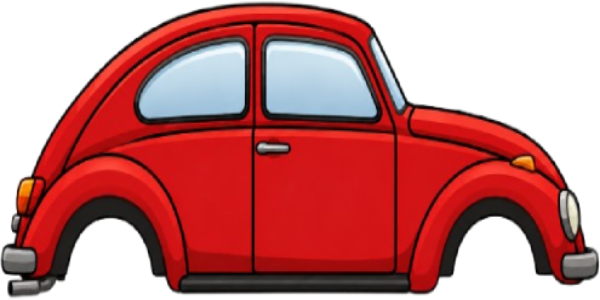
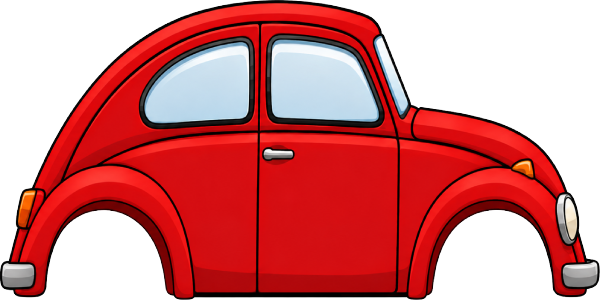
Alinhamento Vehicles

diff --git a/src/assets/vehicles/Vehicle.java b/src/assets/vehicles/Vehicle.java
@@ -9,6 +9,7 @@ import java.io.File;
 public class Vehicle {
     public String name;
     protected int x, y, width, height, wheelSize;
+    protected int frontWheelX, frontWheelY, rearWheelX, rearWheelY;
     protected Image bodyImage, wheelImage;
     protected double speed, currentRpm, maxRpm, baseTorque, mass, speedMax;
     protected int currentGear;
@@ -31,13 +32,18 @@ public class Vehicle {
 
     protected int volumeEfeitos = 50;
 
-    public Vehicle(String name, int width, int height, int wheelSize, double mass,
-                   double baseTorque, double maxRpm, double speedMax, double[] gearRatios,
+    public Vehicle(String name, int width, int height, int wheelSize,
+                   int frontWheelX, int frontWheelY, int rearWheelX, int rearWheelY,
+                   double mass, double baseTorque, double maxRpm, double speedMax, double[] gearRatios,
                    String bodyPath, String wheelPath) {
         this.name = name;
         this.width = width;
         this.height = height;
         this.wheelSize = wheelSize;
+        this.frontWheelX = frontWheelX;
+        this.frontWheelY = frontWheelY;
+        this.rearWheelX = rearWheelX;
+        this.rearWheelY = rearWheelY;
         this.mass = mass;
         this.baseTorque = baseTorque;
         this.maxRpm = maxRpm;
@@ -47,7 +53,7 @@ public class Vehicle {
         this.wheelImage = new ImageIcon(wheelPath).getImage();
 
         this.x = 50;
-        this.y = 280;
+        this.y = 260;
         this.wheelAngle = 0;
         this.currentGear = 1;
         this.currentRpm = 0.0;
@@ -69,9 +75,18 @@ public class Vehicle {
     public int getWidth() {
         return this.width;
     }
-    public boolean isEngineOn() { return isEngineOn; }
-    public void setX(int x) { this.x = x; }
-    public void setY(int y) { this.y = y; }
+
+    public boolean isEngineOn() {
+        return isEngineOn;
+    }
+
+    public void setX(int x) {
+        this.x = x;
+    }
+
+    public void setY(int y) {
+        this.y = y;
+    }
 
     public void toggleEngine() {
         if (this.isEngineOn) {
@@ -109,7 +124,8 @@ public class Vehicle {
                     if (finalVolumeDB > gainControl.getMaximum()) finalVolumeDB = gainControl.getMaximum();
                     if (finalVolumeDB < gainControl.getMinimum()) finalVolumeDB = gainControl.getMinimum();
                     gainControl.setValue(finalVolumeDB);
-                } catch (Exception e) {}
+                } catch (Exception e) {
+                }
 
                 clip.start();
             } catch (Exception e) {
@@ -172,14 +188,24 @@ public class Vehicle {
                     engineIdleClip.loop(Clip.LOOP_CONTINUOUSLY);
                     engineIdleClip.start();
                 }
-            } catch (Exception e) {}
+            } catch (Exception e) {
+            }
         }).start();
     }
 
     public void stopEngineSounds() {
-        if (engineStartClip != null && engineStartClip.isRunning()) { engineStartClip.stop(); engineStartClip.close(); }
-        if (engineIdleClip != null && engineIdleClip.isRunning()) { engineIdleClip.stop(); engineIdleClip.close(); }
-        if (engineDrivingClip != null && engineDrivingClip.isRunning()) { engineDrivingClip.stop(); engineDrivingClip.close(); }
+        if (engineStartClip != null && engineStartClip.isRunning()) {
+            engineStartClip.stop();
+            engineStartClip.close();
+        }
+        if (engineIdleClip != null && engineIdleClip.isRunning()) {
+            engineIdleClip.stop();
+            engineIdleClip.close();
+        }
+        if (engineDrivingClip != null && engineDrivingClip.isRunning()) {
+            engineDrivingClip.stop();
+            engineDrivingClip.close();
+        }
     }
 
     private void setClipVolume(Clip clip, float baseVolumeDB) {
@@ -191,7 +217,8 @@ public class Vehicle {
             if (finalVolumeDB > gainControl.getMaximum()) finalVolumeDB = gainControl.getMaximum();
             if (finalVolumeDB < gainControl.getMinimum()) finalVolumeDB = gainControl.getMinimum();
             gainControl.setValue(finalVolumeDB);
-        } catch (Exception e) {}
+        } catch (Exception e) {
+        }
     }
 
     private void applyPitch(Clip clip, float baseSampleRate, double rpm) {
@@ -204,7 +231,8 @@ public class Vehicle {
             if (newRate > rateControl.getMaximum()) newRate = rateControl.getMaximum();
             if (newRate < rateControl.getMinimum()) newRate = rateControl.getMinimum();
             rateControl.setValue(newRate);
-        } catch (Exception e) {}
+        } catch (Exception e) {
+        }
     }
 
     public void updateEngineSound() {
@@ -273,7 +301,6 @@ public class Vehicle {
     public void updatePhysics(boolean isAccelerating, boolean isBraking) {
         if (!this.isEngineOn()) isAccelerating = false;
 
-        // Arrancada em marcha alta (> 1) apaga o motor
         if (this.isEngineOn() && isAccelerating && this.speed < 0.5 && this.currentGear > 1) {
             stallEngine();
             return;
@@ -325,26 +352,37 @@ public class Vehicle {
     }
 
     public void draw(Graphics2D g2d, Component component) {
-        g2d.drawImage(bodyImage, x, y, width, height, component);
 
-        int backWheelX = x + (int)(width * 0.13);
-        int frontWheelX = x + (int)(width * 0.66);
-        int wheelY = y + (int)(height * 0.53);
+
 
         AffineTransform oldTransform = g2d.getTransform();
 
-        g2d.translate(backWheelX + wheelSize / 2.0, wheelY + wheelSize / 2.0);
+        // Desenhar roda traseira usando o offset dinâmico do XML
+        g2d.translate(x + rearWheelX, y + rearWheelY);
         g2d.rotate(this.wheelAngle);
         g2d.drawImage(wheelImage, -wheelSize / 2, -wheelSize / 2, wheelSize, wheelSize, component);
         g2d.setTransform(oldTransform);
 
-        g2d.translate(frontWheelX + wheelSize / 2.0, wheelY + wheelSize / 2.0);
+        // Desenhar roda dianteira usando o offset dinâmico do XML
+        g2d.translate(x + frontWheelX, y + frontWheelY);
         g2d.rotate(this.wheelAngle);
         g2d.drawImage(wheelImage, -wheelSize / 2, -wheelSize / 2, wheelSize, wheelSize, component);
         g2d.setTransform(oldTransform);
+
+        g2d.drawImage(bodyImage, x, y, width, height, component);
+
+
     }
 
-    public double getCurrentSpeed() { return this.speed; }
-    public double getCurrentRpm() { return this.currentRpm; }
-    public int getCurrentGear() { return this.currentGear; }
+    public double getCurrentSpeed() {
+        return this.speed;
+    }
+
+    public double getCurrentRpm() {
+        return this.currentRpm;
+    }
+
+    public int getCurrentGear() {
+        return this.currentGear;
+    }
 }

diff --git a/src/assets/vehicles/VehicleLoader.java b/src/assets/vehicles/VehicleLoader.java
@@ -8,6 +8,14 @@ import java.util.List;
 
 public class VehicleLoader {
 
+    private static String getTagValue(String tagName, Element element) {
+        NodeList nodeList = element.getElementsByTagName(tagName);
+        if (nodeList != null && nodeList.item(0) != null) {
+            return nodeList.item(0).getTextContent();
+        }
+        return "";
+    }
+
     public static List<Vehicle> loadVehicles(String xmlPath) {
         List<Vehicle> vehicleList = new ArrayList<>();
 
@@ -26,33 +34,56 @@ public class VehicleLoader {
                 if (nNode.getNodeType() == Node.ELEMENT_NODE) {
                     Element eElement = (Element) nNode;
 
-                    String name = eElement.getElementsByTagName("name").item(0).getTextContent();
-                    int width = Integer.parseInt(eElement.getElementsByTagName("width").item(0).getTextContent());
-                    int height = Integer.parseInt(eElement.getElementsByTagName("height").item(0).getTextContent());
-                    int wheelSize = Integer.parseInt(eElement.getElementsByTagName("wheelSize").item(0).getTextContent());
-                    double mass = Double.parseDouble(eElement.getElementsByTagName("mass").item(0).getTextContent());
-                    double baseTorque = Double.parseDouble(eElement.getElementsByTagName("baseTorque").item(0).getTextContent());
-                    double maxRpm = Double.parseDouble(eElement.getElementsByTagName("maxRpm").item(0).getTextContent());
-                    double speedMax = Double.parseDouble(eElement.getElementsByTagName("speedMax").item(0).getTextContent());
+                    String name = getTagValue("name", eElement);
+                    int width = Integer.parseInt(getTagValue("width", eElement).isEmpty() ? "300" : getTagValue("width", eElement));
+                    int height = Integer.parseInt(getTagValue("height", eElement).isEmpty() ? "150" : getTagValue("height", eElement));
+                    int wheelSize = Integer.parseInt(getTagValue("wheelSize", eElement).isEmpty() ? "67" : getTagValue("wheelSize", eElement));
 
-                    String[] gearsStr = eElement.getElementsByTagName("gearRatios").item(0).getTextContent().split(",");
+                    // Leitura segura dos atributos de offset das rodas (frontWheel e rearWheel)
+                    // Leitura segura dos atributos de offset das rodas
+                    int frontWheelX = 65, frontWheelY = 10;
+                    NodeList fwList = eElement.getElementsByTagName("frontWheel");
+                    if (fwList != null && fwList.item(0) != null) {
+                        Element fwElem = (Element) fwList.item(0);
+                        frontWheelX = Integer.parseInt(fwElem.getAttribute("offsetX"));
+                        frontWheelY = Integer.parseInt(fwElem.getAttribute("offsetY"));
+                    }
+
+                    int rearWheelX = 235, rearWheelY = 10;
+                    NodeList rwList = eElement.getElementsByTagName("rearWheel");
+                    if (rwList != null && rwList.item(0) != null) {
+                        Element rwElem = (Element) rwList.item(0);
+                        rearWheelX = Integer.parseInt(rwElem.getAttribute("offsetX"));
+                        rearWheelY = Integer.parseInt(rwElem.getAttribute("offsetY"));
+                    }
+
+                    double mass = Double.parseDouble(getTagValue("mass", eElement).isEmpty() ? "800.0" : getTagValue("mass", eElement));
+                    double baseTorque = Double.parseDouble(getTagValue("baseTorque", eElement).isEmpty() ? "150.0" : getTagValue("baseTorque", eElement));
+                    double maxRpm = Double.parseDouble(getTagValue("maxRpm", eElement).isEmpty() ? "5000.0" : getTagValue("maxRpm", eElement));
+                    double speedMax = Double.parseDouble(getTagValue("speedMax", eElement).isEmpty() ? "110" : getTagValue("speedMax", eElement));
+
+                    String gearsText = getTagValue("gearRatios", eElement);
+                    String[] gearsStr = gearsText.isEmpty() ? new String[]{"1.0"} : gearsText.split(",");
                     double[] gearRatios = new double[gearsStr.length];
                     for (int i = 0; i < gearsStr.length; i++) {
                         gearRatios[i] = Double.parseDouble(gearsStr[i].trim());
                     }
 
                     Element sprites = (Element) eElement.getElementsByTagName("sprites").item(0);
-                    String bodyPath = sprites.getAttribute("body");
-                    String wheelPath = sprites.getAttribute("wheel");
+                    String bodyPath = sprites != null ? sprites.getAttribute("body") : "";
+                    String wheelPath = sprites != null ? sprites.getAttribute("wheel") : "";
 
                     Element sounds = (Element) eElement.getElementsByTagName("sounds").item(0);
-                    String startSound = sounds.getAttribute("start");
-                    String idleSound = sounds.getAttribute("idle");
-                    String runSound = sounds.getAttribute("run");
-                    String stopSound = sounds.getAttribute("stop");
-                    String gearSound = sounds.getAttribute("gear");
+                    String startSound = sounds != null ? sounds.getAttribute("start") : "";
+                    String idleSound = sounds != null ? sounds.getAttribute("idle") : "";
+                    String runSound = sounds != null ? sounds.getAttribute("run") : "";
+                    String stopSound = sounds != null ? sounds.getAttribute("stop") : "";
+                    String gearSound = sounds != null ? sounds.getAttribute("gear") : "";
 
-                    Vehicle v = new Vehicle(name, width, height, wheelSize, mass, baseTorque, maxRpm, speedMax, gearRatios, bodyPath, wheelPath);
+                    Vehicle v = new Vehicle(name, width, height, wheelSize,
+                            frontWheelX, frontWheelY,
+                            rearWheelX, rearWheelY,
+                            mass, baseTorque, maxRpm, speedMax, gearRatios, bodyPath, wheelPath);
                     v.setAudioPaths(startSound, stopSound, idleSound, runSound, gearSound);
 
                     vehicleList.add(v);

diff --git a/src/GamePanel.java b/src/GamePanel.java
@@ -195,7 +195,7 @@ public class GamePanel extends JPanel implements ActionListener {
             case 0:
                 if (activeVehicle != null) {
                     activeVehicle.setX(100);
-                    activeVehicle.setY(350);
+                    activeVehicle.setY(330);
                 }
                 currentState = GameStage.PLAYING;
                 break;
@@ -257,7 +257,7 @@ public class GamePanel extends JPanel implements ActionListener {
 
             if (activeVehicle != null) {
                 activeVehicle.setX(virtualWidthAtual / 2 - activeVehicle.getWidth() / 2);
-                activeVehicle.setY(480);
+                activeVehicle.setY(470);
                 activeVehicle.draw(g2d, this);
             }
 
@@ -279,7 +279,7 @@ public class GamePanel extends JPanel implements ActionListener {
             if (garageCars != null && !garageCars.isEmpty()) {
                 Vehicle previewVehicle = garageCars.get(currentCarIndex);
                 previewVehicle.setX(virtualWidthAtual / 2 - previewVehicle.getWidth() / 2);
-                previewVehicle.setY(420);
+                previewVehicle.setY(340);
                 previewVehicle.draw(g2d, this);
 
                 String nomeCarro = previewVehicle.name.toUpperCase();

diff --git a/src/Main.java b/src/Main.java
@@ -11,13 +11,13 @@ public class Main extends JFrame {
         add(gamePanel, BorderLayout.CENTER);
 
         setDefaultCloseOperation(JFrame.EXIT_ON_CLOSE);
-        setPreferredSize(new Dimension(1280, 720));
+        setPreferredSize(new Dimension  (1280, 720));
         pack();
 
         setLocationRelativeTo(null); // Centraliza na tela
         // setExtendedState(JFrame.MAXIMIZED_BOTH);
 
-        setVisible(true); //[cite: 5]
+        setVisible(true);
     }
     public static void main(String[] args) {
         new Main();
